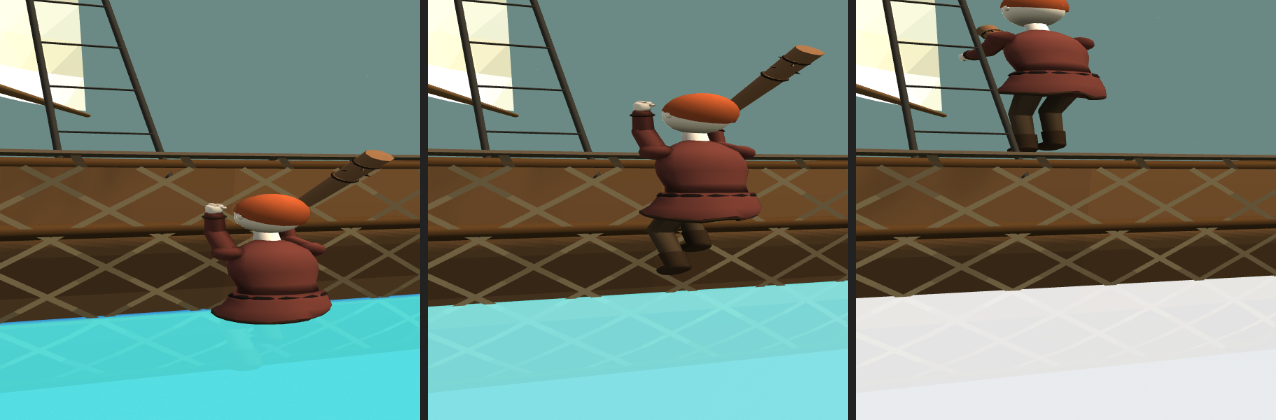
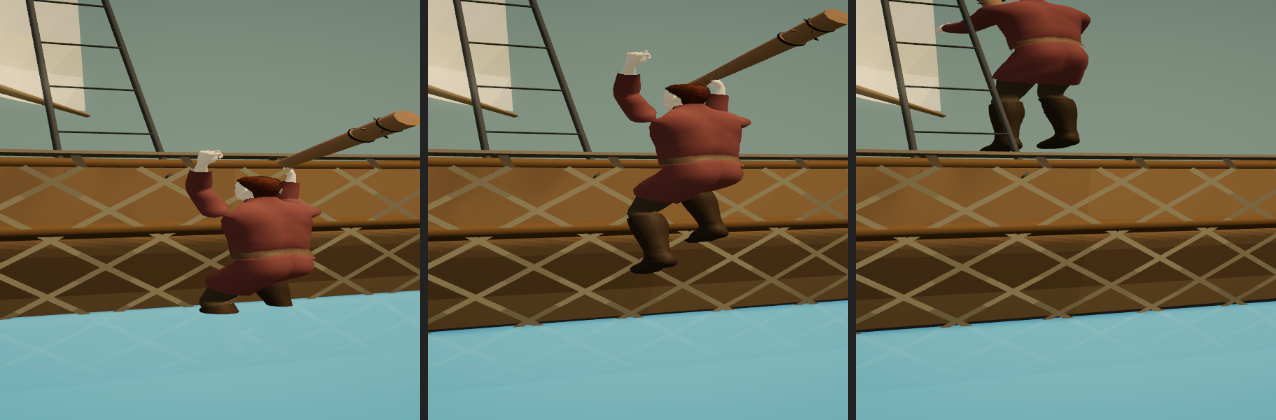
Bodies: Session 1397 — the mantle's pull posed in third person (card F10)
Claude-Session: https://claude.ai/code/session_01SogU74veZ729UQgeMY9NfM

diff --git a/js/54-thirdperson.js b/js/54-thirdperson.js
@@ -210,7 +210,7 @@ function tpHBHold(R){const H=R.rig.hb;if(!H||!R.hbHeld)return;R.root.updateMatri
         _tpHm2.makeRotationFromQuaternion(_tpHq).setPosition(_tpHe.copy(De).applyQuaternion(_tpHq).negate().add(Be));h.c.matrix.premultiply(_tpHm2);}}
     if(h.f&&h.f.length){const v=_tpHv.set(0,0,0);for(const b of h.f)v.add(_tpHv2.setFromMatrixPosition(b.matrixWorld));v.multiplyScalar(1/h.f.length).applyMatrix4(_tpHm);h.c.matrix.setPosition(v);}
     h.c.matrixWorldNeedsUpdate=true;}}
-function tpHBPose(R){if(!R||!R.rig.hb)return;hbPose(R.rig);if(R.hbHook)tpHBBowHand(R);R.root.updateMatrixWorld(true);tpHBHold(R);}
+function tpHBPose(R){if(!R||!R.rig.hb)return;hbPose(R.rig);if(R.mantle)tpHBMantle(R);if(R.hbHook)tpHBBowHand(R);R.root.updateMatrixWorld(true);tpHBHold(R);}
 // S1270 — the bow's draw on the builder's fingers: the right hand, a fist while the bow is carried, opens into the archer's hook as the
 // string comes back (or is held at the ready): the first three fingers bent round the string at their last two joints and barely at the
 // knuckle, the little finger and the thumb left folded. The knuckles' line is hbCloseFist's, read once when the body is built; the hand
@@ -411,6 +411,11 @@ function tpPose(R,dt,st){
     tpSet(R.thighL,(-.95-.35*s)*w-.3*q,0,0,c);tpSet(R.kneeL,(1.35+.3*s)*w+.3*q,0,0,c);tpSet(R.thighR,(-.95+.35*s)*w-.3*q,0,0,c);tpSet(R.kneeR,(1.35-.3*s)*w+.3*q,0,0,c);
     if(R.ankleL){tpSet(R.ankleL,0,0,0,c);tpSet(R.ankleR,0,0,0,c);}
     tpSet(R.torso,.18+.25*q,0,0,c);tpSet(R.head,-.4+.3*q,0,0,c);}
+  // S1397 — the mantle's pull (S1385, the systems builder's ask): both hands planted on the ledge a hand's breadth past its edge, shoulder
+  // width apart, and kept there while the pull lifts you (tpReach); the arms bend as the shoulders come level with the ledge and press
+  // straight under you past it; the right knee comes up onto it as the pull carries you on, and the body stands up over the last fifth,
+  // the hands let go. Read from MANTLE and the loop's clock, as the pull itself is.
+  tpMantle(R);
   // death: down on the back
   R.root.rotation.x=-TP.deadT*Math.PI/2;R.root.position.y-=TP.deadT*.1;
 }
@@ -427,6 +432,50 @@ function tpGripL(R){
   // the turn in the world, carried into the shoulder's own frame: q_local' = parentWorld⁻¹ · turn · jointWorld
   _tgQ.setFromUnitVectors(_tgA.normalize(),_tgB.normalize());R.shL.getWorldQuaternion(_tgQ2);_tgQ.multiply(_tgQ2);R.shL.parent.getWorldQuaternion(_tgQ2);_tgQ.premultiply(_tgQ2.invert());R.shL.quaternion.copy(_tgQ);
   R.shL.updateMatrixWorld(true);
+}
+// S1397 — the pull's holds on the builder's body: twice, the driver's wrists aimed short by how far the builder's miss, and copied again
+const _tmE=[new THREE.Vector3(),new THREE.Vector3()],_tmW=new THREE.Vector3();
+function tpHBMantle(R){const H=R.rig.hb,M=R.mantle;if(M.w<=0)return;const wb=[H.P.byName['wrist.L'],H.P.byName['wrist.R']];if(!wb[0]||!wb[1])return;
+  _tmE[0].set(0,0,0);_tmE[1].set(0,0,0);
+  for(let k=0;k<2;k++){R.root.updateMatrixWorld(true);for(let i=0;i<2;i++){wb[i].getWorldPosition(_tmW);_tmE[i].add(_tmW.sub(M.T[i]));}
+    tpMantleArms(R,_tmE);hbPose(R.rig);}}
+// S1397 — a two-bone reach for any arm, as tpGripL's for the left: the elbow bent until shoulder to wrist is shoulder to T, then the
+// shoulder turned to put the wrist on T; out of reach the arm points straight at it
+function tpReach(sh,el,wr,T){
+  sh.getWorldPosition(_tgS);const dT=_tgS.distanceTo(T);
+  const reach=b=>{el.rotation.set(b,0,0);el.updateMatrixWorld(true);return wr.getWorldPosition(_tgW).distanceTo(_tgS);};
+  let lo=-2.5,hi=0;if(reach(hi)>dT){for(let k=0;k<14;k++){const m=(lo+hi)/2;if(reach(m)>dT)hi=m;else lo=m;}reach((lo+hi)/2);}
+  wr.getWorldPosition(_tgW);_tgA.subVectors(_tgW,_tgS);_tgB.subVectors(T,_tgS);
+  if(_tgA.lengthSq()<1e-8||_tgB.lengthSq()<1e-8)return;
+  _tgQ.setFromUnitVectors(_tgA.normalize(),_tgB.normalize());sh.getWorldQuaternion(_tgQ2);_tgQ.multiply(_tgQ2);sh.parent.getWorldQuaternion(_tgQ2);_tgQ.premultiply(_tgQ2.invert());sh.quaternion.copy(_tgQ);
+  sh.updateMatrixWorld(true);}
+const _tmT=new THREE.Vector3(),_tmQ=[new THREE.Quaternion(),new THREE.Quaternion(),new THREE.Quaternion(),new THREE.Quaternion()];
+// the pull's pose (S1397): p is the pull's own time, 0 to 1; the ledge's edge is MANTLE's start plus its run less the 0.35 m past it
+function tpMantle(R){
+  if(typeof MANTLE==='undefined'||MANTLE.t0==null||dead||!R.rig){R.mantle=null;return;}
+  const p=Math.max(0,Math.min(1,(FALL.clock-MANTLE.t0)/MANTLE_DUR)),sm=t=>{t=Math.max(0,Math.min(1,t));return t*t*(3-2*t);};
+  const dx=MANTLE.x1-MANTLE.x0,dz=MANTLE.z1-MANTLE.z0,d=Math.hypot(dx,dz)||1,fx=dx/d,fz=dz/d,e=Math.max(0,d-.35)+.1;
+  const s=R.root.scale.x||1,knee=sm((p-.4)/.3)*(1-sm((p-.8)/.2)),stand=sm((p-.8)/.2),hang=1-sm((p-.35)/.3);
+  // legs: hanging a little bent, then the right knee up onto the ledge and the left trailing, then standing
+  tpSet(R.thighL,-.25*hang+.15*knee,0,0,1);tpSet(R.kneeL,.45*hang+.35*knee,0,0,1);
+  tpSet(R.thighR,-.25*hang-1.55*knee,0,0,1);tpSet(R.kneeR,.45*hang+1.9*knee,0,0,1);
+  if(R.ankleL){tpSet(R.ankleL,0,0,0,1);tpSet(R.ankleR,.3*knee,0,0,1);}
+  // the body bows forward over the ledge as it comes up past the hands, so they stay on it, and straightens as it stands
+  tpSet(R.torso,.12+1.05*sm((p-.2)/.35)*(1-stand),0,0,1);tpSet(R.head,-.25+.35*sm((p-.2)/.35)*(1-stand),0,0,1);
+  // arms: the hands on the ledge until they let go over the last part of the pull
+  R.root.updateMatrixWorld(true);
+  R.mantle={w:1-sm((p-.72)/.2),T:[0,1].map(i=>{const side=i?1:-1;
+    return new THREE.Vector3(MANTLE.x0+fx*e-fz*side*.2*s,MANTLE.y1+.04*s,MANTLE.z0+fz*e+fx*side*.2*s);}), /* the body's right is (−fz, fx) from its facing (fx, fz) */
+    q:[R.shL.quaternion.clone(),R.elL.quaternion.clone(),R.shR.quaternion.clone(),R.elR.quaternion.clone()]};
+  tpMantleArms(R,null);
+}
+// the arms onto the pull's two holds (R.mantle, set by tpMantle this frame); err, the builder's wrists less the holds, aims the driver's
+// wrists that much short so that the builder's body, whose arms are its own length, puts its wrists on them (tpHBPose)
+function tpMantleArms(R,err){const M=R.mantle;if(!M||M.w<=0)return;
+  const arms=[[R.shL,R.elL,R.handL],[R.shR,R.elR,R.handR]];
+  for(let i=0;i<2;i++){const[sh,el,wr]=arms[i];_tmT.copy(M.T[i]);if(err)_tmT.sub(err[i]);
+    tpReach(sh,el,wr,_tmT);
+    if(M.w<1){_tmQ[0].copy(sh.quaternion);_tmQ[1].copy(el.quaternion);sh.quaternion.slerpQuaternions(M.q[i*2],_tmQ[0],M.w);el.quaternion.slerpQuaternions(M.q[i*2+1],_tmQ[1],M.w);sh.updateMatrixWorld(true);}}
 }
 // the body for what is worn now, built (or its builder's body carried over) when the kit or the look has changed; first person's hands
 // are cut from it too (fpHBFist), so it is kept current in either view when the hands are built

diff --git a/docs/backlog.md b/docs/backlog.md
@@ -416,6 +416,7 @@ The blocky look is inherited, not chosen: ~790 `BoxGeometry` and ~520 cylinders/
 - ~~**On the kit's towns a house's footprint moves when the town's prosperity swings**~~ — **done, Session 1275** (struck in Session 1329, where it had been left open): a kit house keeps its street front at every prosperity and takes its kind's depth from it, so a shop that becomes an inn moves its centre and not its front (the kit as built, S1126, Michael's B on #408); the one real mover, the guild hall's lot grown about its centre, now puts the hall's front on the lot's own street line (`lot.dB`), and `placesave` counts a house as moved only when its centre and its front both move. Was: (the systems builder, Session 1266, from `tests/placesave` on the new look, a skipped suite; for the look builder, the kit's lots in `genSettlement`, `js/83-world-generator.js`, S1065's bays and S1083's guild hall): in Dunmore (prosperity 61) a swing to 48 or 35 moves 8 of 49–43 kept ids' footprint centres 0.5–2.75 m, and to 87 moves 4 (`g_dunmore_0` the Fighters' Guild at 61 is a weapon shop at 48 with its centre 2.75 m off; `g_dunmore_4`, `_5`, `_6` shops become inns 1–2 m off). The ids keep their lots (`l.k`, from the base plan), so saves made inside six kinds of room come back in the same room at the same spot, and owned homes stay *Your House* at their own door; what moves is the building on the lot, because a lot's widening gives a bay back near its neighbours and the hall moves its centre, both of which depend on what the neighbours are. Whether a footprint may move with the town's fortunes, or each lot's size is fixed from the base plan, is the look builder's (or the designer's).
 - ~~**s863 — the main quest's two named gates show nothing of their condition**~~ — **done, Sessions 1358 and 1365**: Session 1365 builds Michael's A on #664, so a crossing takes gaps on the nave's rule and the Vault of the Tide reads 4 (2 a floor); only gates of flooded halls alone stay bare (B not taken). Session 1358: floor one of a two-floor gate has its nave's gaps now, over floor two's rock (`dGapOne`; the Dungeon of Shadows reads 2 gaps, `tests/gatepath`). The Vault of the Tide has no nave and no chasm at all, so the sheet's rule gives it nothing: **DECISION #664** (crossings take gaps, A recommended). Was: (critic 2026-10-24; for the systems builder, `gateCondition` in `js/52-dungeon-gen.js`): the Dungeon of Shadows (seed 42) rolls failing and the Vault of the Tide (845) catastrophic, but both are two-floor gates with no chasm, and a nave's pits are refused on floor one of a two-floor gate. So `_lastGen` reads 0 stones and 0 gaps in each, and only the Vault's ring tier-up differs from a steady gate. Steps: `_reenterPlace({kind:'dungeon',seed:42,floor:1})`, read `_lastGen.cond/stones/gaps`; the same for 845.
 - ~~**s863 — the coaching inn's room is 4 m deeper than its house**~~ — **done, Session 1368**: on the new look a town's coaching inn is its own room inside its front (`buildKitCoachRoom`), 11.7 by 8.1 m inside the 12.6 by 9 m walls; `tests/kitcoachroom`. Was: (critic 2026-10-24; for the look builder, `buildInteriorFor` in `js/83-world-generator.js`): Dunmore's The Bramble Hearth (`g_dunmore_8`) has a 12.6 by 9 m front, but entered at 19h, `currentHouse.intW`×`intD` is 12 by 13 m (S1343 says it is sized to the front). The coaching inn's own taproom (next) should strike this.
+- ~~**The mantle's pull has no pose in either view**~~ — **third person done, Session 1397**: the hands are planted on the ledge, the body bows over it, the right knee comes up and it stands (`tpMantle`, `tpHBMantle`; `tests/mantle`). First person still shows the held weapon through the pull: owed (systems builder's ask in S1385's post, for the bodies builder).
 
 ## J. Design proposals wanted (Michael, 27 Sep 2026)
 Michael wants to hear proposals from the team before anything is built. Each proposal is a page in `docs/design/<topic>.md`: the problem in his words, 2–3 directions with a recommendation, what it displaces, cost in sessions. Nothing here is a spec until it carries a `Michael:` line in docs/decisions.md. His brief is `docs/design_brief.md`.

diff --git a/docs/devlog/1397.md b/docs/devlog/1397.md
@@ -1,0 +1,39 @@
+## v80 — Session 1397 — the mantle's pull, posed (card F10)
+The systems builder's ask from Session 1385: the mantle (pressed forward into a ledge in the air, you are pulled up onto it in 0.5 s) had
+no pose in either view. In third person the body rose and slid onto the ledge in whatever the jump's pose was, the arms flung out.
+
+`js/54-thirdperson.js`:
+- `tpMantle(R)`, called at the end of `tpPose` while `MANTLE` holds a pull, reads the pull's own time from `MANTLE.t0` and the loop's
+  `FALL.clock`, as the pull does, so a dropped frame poses the same. Over the pull: the legs hang a little bent; from 0.4 the right
+  knee comes up onto the ledge (thigh −1.55, knee 1.9) and the left trails; over the last fifth it stands. The spine bows forward
+  over the ledge by up to 1.05 rad from 0.2 to 0.55, which keeps the shoulders low enough for the hands to stay down as the pull
+  lifts you, and straightens as you stand.
+- The hands are held on two points of the ledge: 0.1 m past its edge (MANTLE's run less its 0.35 m on), 0.2 m either side of the
+  body's line, 4 cm over the top (the wrist over the palm). `tpReach` is `tpGripL`'s two-bone reach (S246) for either arm: the elbow
+  bent until the wrist is at the hold's distance, then the shoulder turned onto it. From 0.72 to 0.92 the hands let go (a slerp
+  back to the standing arms).
+- The builder's body copies the driver's joints, not its lengths: its arms put the wrists 20–30 cm over the ledge where the driver's
+  were on it. `tpHBMantle`, in `tpHBPose`, measures where the builder's wrists landed and aims the driver's short by that miss, twice,
+  copying the joints again each time; the builder's wrists then land within 5 cm of the holds.
+- Once the shoulders have risen more than an arm over the ledge (about 0.45 of the pull on a 1.5 m ledge), the arms point straight
+  down at the holds, which reads as the press.
+
+`tests/mantle.test.mjs` gains one check: in third person, on a 1.5 m ledge, the builder's wrists are within 6 cm of the holds over
+the pull's first third, the holds are on the ledge, and the pull ends on it. The suite's `_try` takes an `onPull` hook for it.
+
+Pictures, side-on on a 1.5 m ledge at 0.15, 0.45, 0.65 and 0.85 of the pull: `docs/prototypes/f10/f10-mantle-0.15.jpg` (to 0.85).
+
+### Verified (headless Chromium)
+- `mantle` 1/1, with the new check: the builder's wrists 0.006–0.05 m from the holds over six frames, the holds 0.054 m over the
+  1.5 m ledge and 0.63 m ahead of the start. Every earlier check unchanged (the pull 0.517 s, on at 1.5 m).
+- A check script of my own: the driver's and the builder's wrists through the pull on 1.5 and 2.3 m ledges (on the hold to 0.3 of the
+  pull, then 0.19–0.56 m over it as the body rises), no page errors.
+- `f10motion`, `netclimb` (the boarding net's climb, the other pose laid over the driver's), `tpswing` and `player`: 1/1 each.
+
+### Needs eyes
+- A held weapon goes through the ledge: at the pull's start a club in the right fist points up through it, and it lies across the top
+  as the hands press. The fist keeps the grip; the weapon is not stowed for the 0.5 s.
+- First person shows nothing of the pull yet (the weapon held as before): owed.
+- The arms leave the ledge from about 0.45 of the pull, since the systems builder's pull lifts the body to the ledge's height by 0.7;
+  a playtest decides whether the press wants the body's lift slower at the start (a rule, the systems builder's) or the hands let go
+  sooner.
